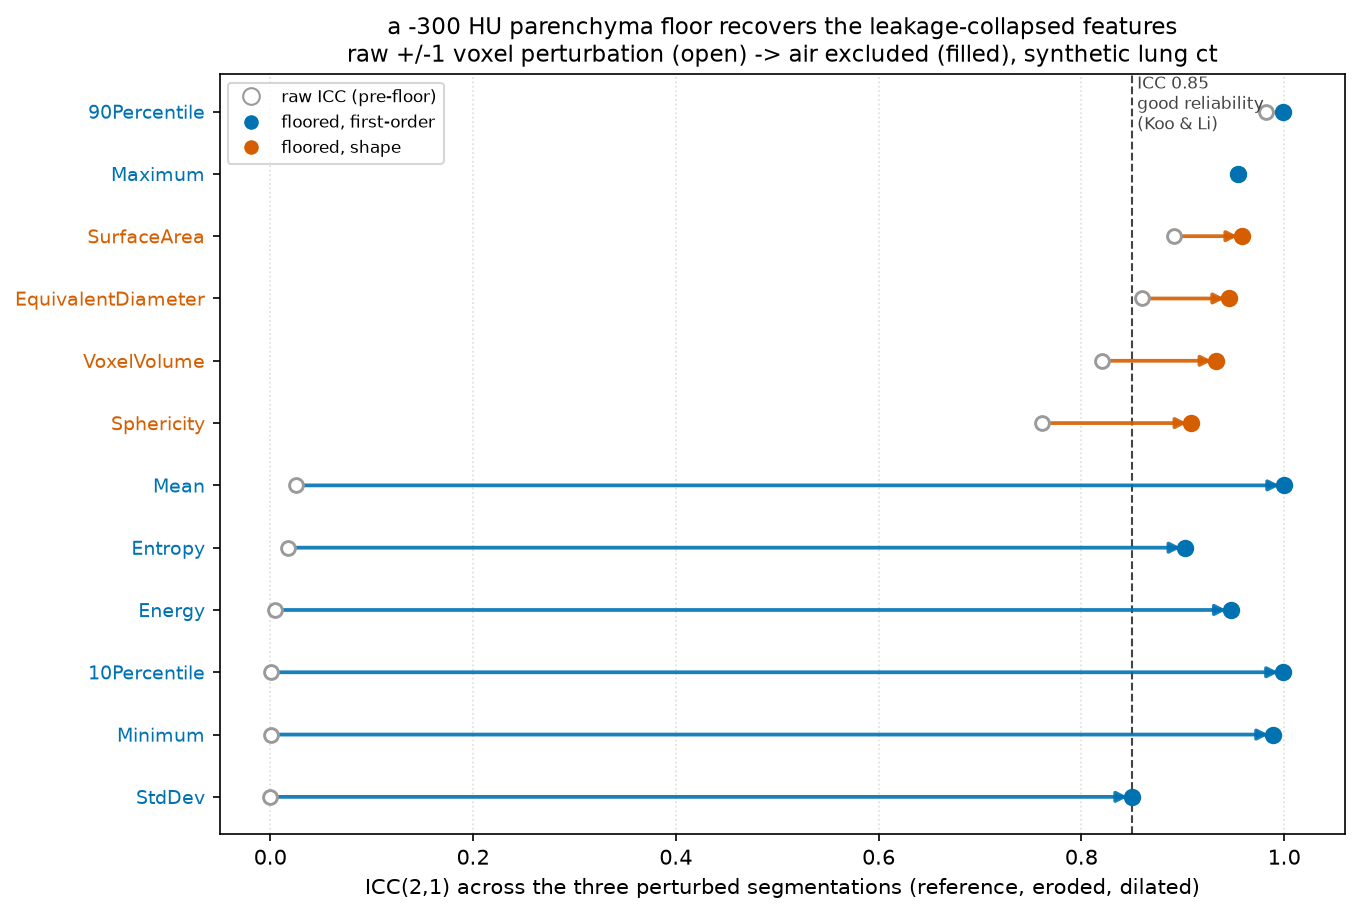
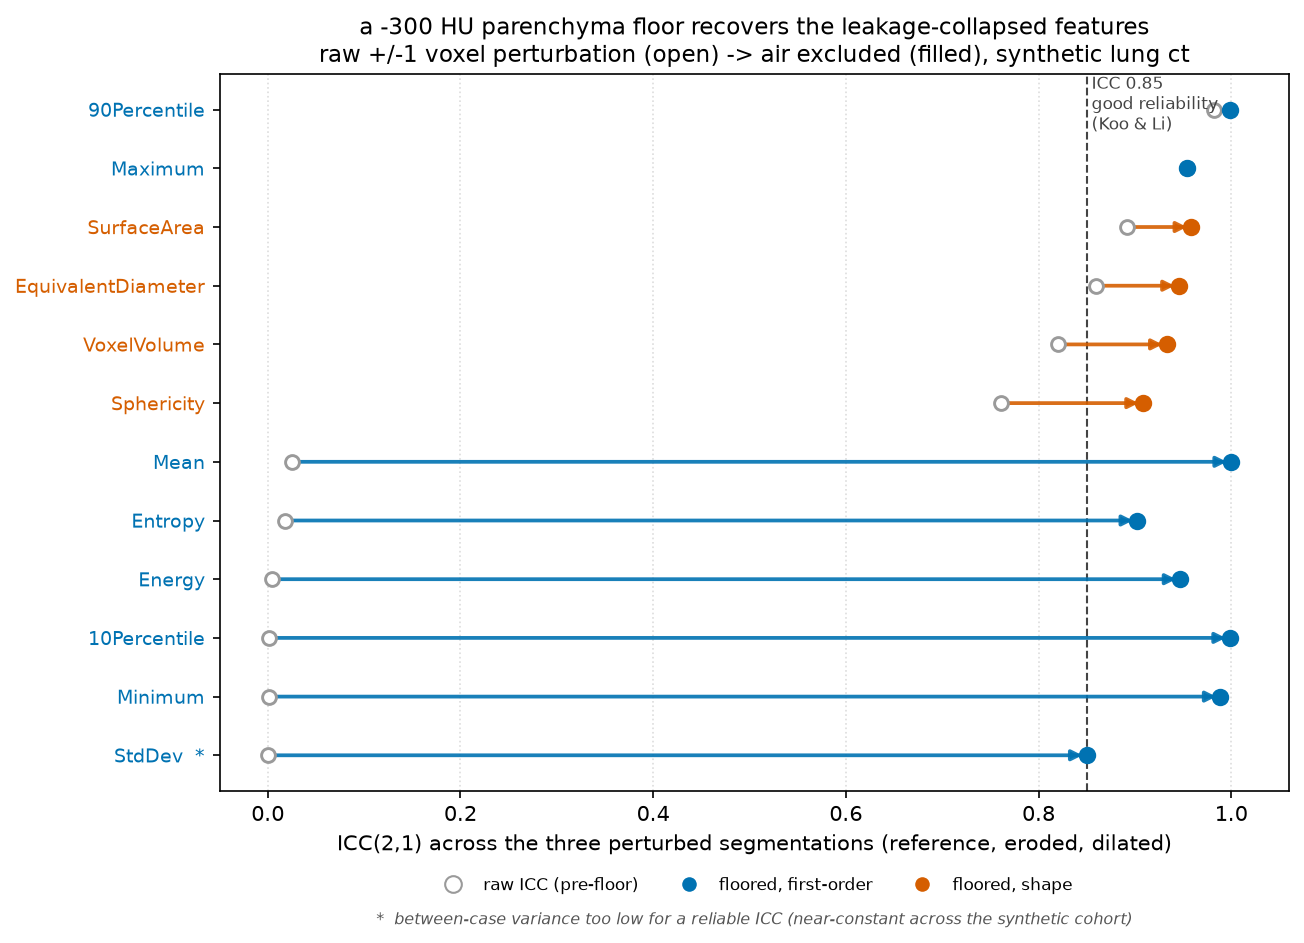
flag low-signal ICCs + move figure legend below the plot
a near-constant feature has an ill-conditioned ICC (no between-case variance to be reproducible about), so feature_reproducibility now reports a between/within spread ratio and flags low_signal features. on the synthetic cohort stddev trips it: every nodule shares one internal noise level, so its 0.85 floored ICC is not trustworthy the way mean's 1.00 is. flagged with an asterisk + footnote in the hero figure, noted in the readme and cli, the same degeneracy guard project 1 needed. also moved the figure legend out from over the plot to a row beneath it.

diff --git a/src/seg_radiomics/reproducibility.py b/src/seg_radiomics/reproducibility.py
@@ -66,7 +66,8 @@ def icc_2_1(data: np.ndarray) -> float:
     return float((ms_rows - ms_err) / denom) if abs(denom) > 1e-12 else float("nan")
 
 
-def feature_reproducibility(cohort, spacing=(1.0, 1.0, 1.0), use_gt=True, min_voxels=8, hu_floor=None):
+def feature_reproducibility(cohort, spacing=(1.0, 1.0, 1.0), use_gt=True, min_voxels=8,
+                            hu_floor=None, min_snr=3.0):
     """per-feature icc / ccc across {reference, eroded, dilated} masks
 
     the reference mask is the ground truth (use_gt) or the prediction. cases whose mask
@@ -75,7 +76,13 @@ def feature_reproducibility(cohort, spacing=(1.0, 1.0, 1.0), use_gt=True, min_vo
     hu_floor (when set) intersects every mask with image >= hu_floor before extraction, a
     parenchyma-exclusion step that drops the air voxels a dilation leaked into. this is the
     computational fix for the boundary-leakage failure mode: run with and without it to
-    show how much first-order stability the floor recovers
+    show how much first-order stability the floor recovers.
+
+    a feature whose between-case spread is below min_snr times its within-case (perturbation)
+    spread is marked low_signal: it is near-constant across the cohort, so icc has almost no
+    variance to be reproducible about and the score is ill-conditioned. common in synthetic
+    data where a feature is fixed by construction (e.g. stddev when every nodule shares one
+    internal noise level)
     """
     triples: list[tuple[dict, dict, dict]] = []
     for case in cohort:
@@ -106,11 +113,19 @@ def feature_reproducibility(cohort, spacing=(1.0, 1.0, 1.0), use_gt=True, min_vo
         if ok.sum() < 3:
             continue
         mat = mat[ok]
+        # icc needs the feature to vary across cases. if the between-case spread is not
+        # comfortably larger than the within-case (perturbation) spread, the icc is
+        # ill-conditioned, so flag it instead of reporting a misleading agreement score
+        between = mat[:, 0].std()
+        within = (mat - mat.mean(axis=1, keepdims=True)).std()
+        snr = float(between / (within + 1e-12))
         rows.append({
             "feature": name,
             "fclass": feature_class(name),
             "icc": icc_2_1(mat),                      # agreement across the 3 segmentations
             "ccc": lin_ccc(mat[:, 0], mat[:, 1:].mean(1)),  # reference vs mean perturbed
+            "snr": snr,                               # between-case / within-case spread
+            "low_signal": bool(snr < min_snr),        # near-constant across cases, icc untrustworthy
         })
     return rows
 

diff --git a/scripts/make_figures.py b/scripts/make_figures.py
@@ -41,7 +41,9 @@ def _is_first_order(name: str) -> bool:
 def main() -> None:
     cohort = make_cohort(n=40, shape=(40, 56, 56), seed=0)  # matches configs/default.yaml
     raw = {r["feature"]: r["icc"] for r in feature_reproducibility(cohort, use_gt=True)}
-    flo = {r["feature"]: r["icc"] for r in feature_reproducibility(cohort, use_gt=True, hu_floor=-300.0)}
+    flo_rows = feature_reproducibility(cohort, use_gt=True, hu_floor=-300.0)
+    flo = {r["feature"]: r["icc"] for r in flo_rows}
+    low = {r["feature"]: r["low_signal"] for r in flo_rows}  # icc untrustworthy, near-constant across cases
 
     feats = sorted(raw, key=lambda k: raw[k])  # ascending raw icc, the collapsed ones at the bottom
     ys = list(range(len(feats)))
@@ -61,7 +63,7 @@ def main() -> None:
             fontsize=8, color="#444", va="top")
 
     ax.set_yticks(ys)
-    ax.set_yticklabels([_short(f) for f in feats], fontsize=9)
+    ax.set_yticklabels([_short(f) + ("  *" if low.get(f) else "") for f in feats], fontsize=9)
     for tick, f in zip(ax.get_yticklabels(), feats):
         tick.set_color(FO if _is_first_order(f) else SH)
     ax.set_ylim(-0.6, len(feats) - 0.4)
@@ -77,10 +79,15 @@ def main() -> None:
         Line2D([0], [0], marker="o", color="w", markerfacecolor=FO, markersize=8, label="floored, first-order"),
         Line2D([0], [0], marker="o", color="w", markerfacecolor=SH, markersize=8, label="floored, shape"),
     ]
-    ax.legend(handles=handles, loc="upper left", fontsize=8, frameon=True)
+    ax.legend(handles=handles, loc="upper center", bbox_to_anchor=(0.5, -0.10),
+              ncol=3, fontsize=8, frameon=False)
     ax.grid(axis="x", ls=":", color="#dddddd")
     ax.set_axisbelow(True)
-    fig.tight_layout()
+    if any(low.values()):
+        ax.annotate("*  between-case variance too low for a reliable ICC "
+                    "(near-constant across the synthetic cohort)",
+                    xy=(0.5, -0.17), xycoords="axes fraction", ha="center", va="top",
+                    fontsize=7.5, color="#555555", style="italic")
 
     FIG_DIR.mkdir(parents=True, exist_ok=True)
     out = FIG_DIR / "parenchyma_floor_recovery.png"

diff --git a/tests/test_core.py b/tests/test_core.py
@@ -153,3 +153,16 @@ def test_hu_floor_recovers_first_order_reproducibility():
            for r in reproducibility.feature_reproducibility(cohort, use_gt=True, hu_floor=-300.0)}
     # raw, the dilation leaks into -800 hu air and collapses the mean; the floor rescues it
     assert raw["firstorder_Mean"] < 0.5 and flo["firstorder_Mean"] > 0.85
+
+
+def test_low_signal_guard_flags_near_constant_feature():
+    # the canonical cohort the figure uses, where the heuristic is deterministic
+    cohort = make_cohort(n=40, shape=(40, 56, 56), seed=0)
+    rows = {r["feature"]: r
+            for r in reproducibility.feature_reproducibility(cohort, use_gt=True, hu_floor=-300.0)}
+    # stddev has by far the lowest between/within signal (nodules share one internal noise
+    # level), an order of magnitude under mean (which varies with nodule density)
+    assert rows["firstorder_StdDev"]["snr"] < rows["firstorder_Mean"]["snr"] / 10
+    # on this cohort the guard flags stddev and not mean; the flag is just snr < min_snr
+    assert rows["firstorder_StdDev"]["low_signal"]
+    assert not rows["firstorder_Mean"]["low_signal"]

diff --git a/src/seg_radiomics/pipeline.py b/src/seg_radiomics/pipeline.py
@@ -158,6 +158,10 @@ def format_results(results: dict, top_k: int = 5) -> str:
                 fm, fp = f.get("median_icc", float("nan")), f.get("pct_icc_gt_0.85", float("nan"))
                 lines.append(f"| {fam} (n={s['n']}) | {s['median_icc']:.3f} | {fm:.3f} | "
                              f"{s['pct_icc_gt_0.85']:.0f}% -> {fp:.0f}% |")
+        low = [r["feature"] for r in results.get("reproducibility_per_feature_floored", [])
+               if r.get("low_signal")]
+        if low:
+            lines.append(f"low-signal (icc ill-conditioned, near-constant across cases): {', '.join(low)}")
 
     vc = results.get("volume_confound", {})
     flagged = [n for n, st in vc.items() if st["volume_proxy"]]

diff --git a/README.md b/README.md
@@ -118,9 +118,10 @@ mask, removing the air a dilation leaked into) recovers it almost completely:
 | first-order | 0.01 | 0.97 | 25% -> 88% |
 
 every collapsed first-order feature comes back above 0.85 (energy 0.005 -> 0.95, mean
-0.03 -> 1.00, std 0.00 -> 0.85). this is the actionable half: the pipeline doesn't just
-flag unstable features, it shows a one-line preprocessing fix that restores them (the
-floor is `features.hu_floor` in the config).
+0.03 -> 1.00; stddev recovers to 0.85 but is flagged low-signal, see the caveat below).
+this is the actionable half: the pipeline doesn't just flag unstable features, it shows a
+one-line preprocessing fix that restores them (the floor is `features.hu_floor` in the
+config).
 
 ![raw vs floored ICC per feature: every first-order feature that collapsed under the raw +/-1 voxel perturbation (open circles near zero) recovers above the 0.85 good-reliability line once a -300 HU floor excludes the leaked air (filled circles), while the already-robust upper-percentile features barely move and the shape features recover modestly](docs/figures/parenchyma_floor_recovery.png)
 
@@ -156,6 +157,15 @@ disagreement. the real measurement is lidc's four independent radiologist contou
 nodule (build plan), which the same icc(2,1) code consumes directly. icc is reported per
 feature, not as a single family average, because the families are bimodal (the first-order
 split above would otherwise vanish into a meaningless "moderate" mean).
+
+one feature, stddev, is flagged **low-signal** (the asterisk in the figure): every
+synthetic nodule is built with the same internal noise level, so stddev barely varies
+across cases (range 23 to 26) and its icc, recovered or not, has almost nothing to be
+reproducible *about*. the pipeline flags it with a heuristic guard (between-case spread
+under `min_snr` times the within-case spread, `reproducibility.feature_reproducibility`),
+the same kind of degeneracy check project 1 needed when a normalization choice made
+first-order features near-constant. real lung ct, where nodule heterogeneity genuinely
+varies, gives stddev a real signal and a trustworthy icc.
 
 ## quality control (first-class, `qc.py`)
 